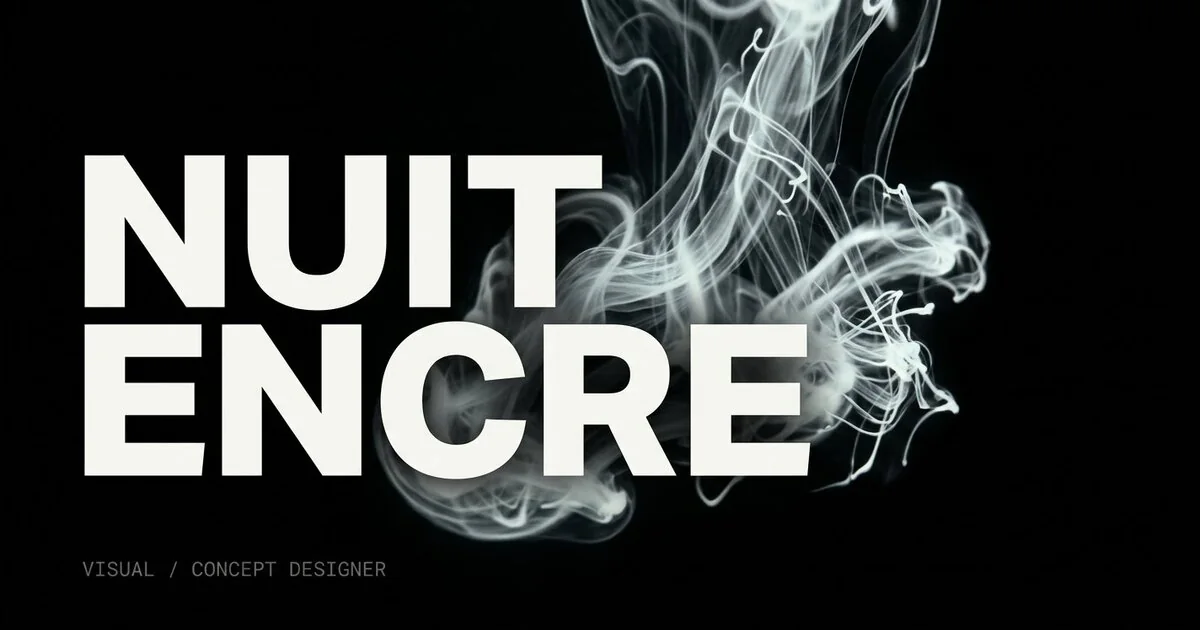
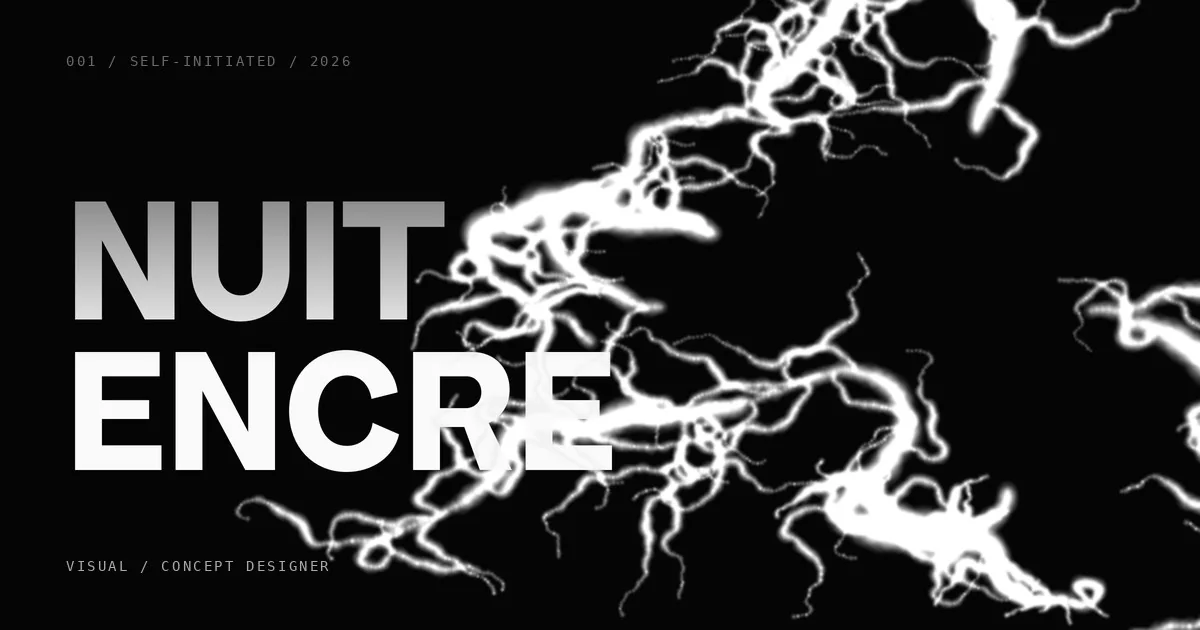
feat: kartu berbagi baru — wordmark Apfel disingkap tinta, plus skrip pembuatnya

diff --git a/tools/make-og-card.py b/tools/make-og-card.py
@@ -1,0 +1,137 @@
+"""Kartu berbagi Nuit-Encre — bahasa visual identik dengan hero situs."""
+import math, os, random
+from PIL import Image, ImageDraw, ImageFont, ImageFilter
+import numpy as np
+
+# Jalankan dari akar repo. Font situs (woff2) diubah ke ttf lebih dulu
+# supaya huruf di kartu identik dengan huruf di situs.
+ROOT = os.path.dirname(os.path.dirname(os.path.abspath(__file__)))
+os.chdir(ROOT)
+TTF = '/tmp/ApfelFett.ttf'
+if not os.path.exists(TTF):
+    from fontTools.ttLib import TTFont
+    _f = TTFont('assets/fonts/ApfelGrotezk-Fett.woff2')
+    _f.flavor = None
+    _f.save(TTF)
+
+W, H = 1200, 630
+SS = 2
+CW, CH = W*SS, H*SS
+rnd = random.Random(20260825)
+
+# ---------- 1. tinta bercabang, port dari grow() ----------
+blobs = []
+def grow(px, py, dr, nodes, step, thick, gen):
+    for i in range(nodes):
+        u = i/nodes
+        dr += (rnd.random()-.5)*(1.25 if gen else .85)
+        px += math.cos(dr)*step
+        py += math.sin(dr)*step*.72
+        taper = math.sin(math.pi*min(1, u*1.15+.12))
+        blobs.append((px, py, thick*(.4+taper*.6)*(.7+rnd.random()*.5)))
+        if gen < 1 and rnd.random() < .17:
+            grow(px, py, dr+(1 if rnd.random()<.5 else -1)*(.5+rnd.random()*.7),
+                 max(3, int(nodes*.45)), step*.7, thick*.42, gen+1)
+        if rnd.random() < .18:
+            blobs.append((px+(rnd.random()-.5)*.1, py+(rnd.random()-.5)*.07,
+                          thick*.34*(.5+rnd.random()*.5)))
+
+# Kartu ini lanskap dan tinta di sini berperan sebagai AKSEN, bukan
+# penutup layar seperti di hero. Maka serat dibuat jauh lebih ramping
+# (thick .022-.05 vs .10-.18) dan jumlahnya diperbanyak, supaya
+# terbaca sebagai serat mengalir alih-alih satu massa gemuk.
+S = min(CW, CH)
+for k in range(9):
+    ang = (k/9)*math.pi*2 + rnd.random()*.7
+    # sebar melingkar, bukan acak murni: mencegah beberapa strand
+    # berangkat dari titik berdekatan lalu menggumpal jadi satu massa
+    rx, ry = CW*.185, CH*.30
+    cx_, cy_ = CW*.755, CH*.50
+    ox = cx_ + math.cos(ang)*rx*(.55+rnd.random()*.7)
+    oy = cy_ + math.sin(ang)*ry*(.55+rnd.random()*.7)
+    # Kunci agar terbaca sebagai SERAT, bukan manik: jari-jari harus
+    # lebih besar dari langkah (rasio r/step >= 1.8), persis seperti
+    # di hero. Serat tetap ramping, tapi langkahnya dirapatkan dan
+    # simpulnya diperbanyak agar jejaknya panjang mengalir.
+    grow(ox, oy, ang, rnd.randint(70,120),
+         S*(.006+rnd.random()*.005), S*(.020+rnd.random()*.022), 0)
+print("simpul:", len(blobs))
+
+# ---------- 2. penumpukan ADITIF dgn gradien radial (spt canvas 'lighter')
+# Inilah yang membuat tinta terbaca sebagai serat, bukan gumpalan:
+# tiap simpul lembut di tepinya dan saling MENJUMLAH, tidak saling menimpa.
+acc = np.zeros((CH, CW), dtype=np.float32)
+yy, xx = np.mgrid[0:CH, 0:CW].astype(np.float32)
+for bx, by, r in blobs:
+    if r <= 1: continue
+    x0, x1 = max(0,int(bx-r)), min(CW,int(bx+r)+1)
+    y0_, y1 = max(0,int(by-r)), min(CH,int(by+r)+1)
+    if x0>=x1 or y0_>=y1: continue
+    sy, sx_ = yy[y0_:y1, x0:x1], xx[y0_:y1, x0:x1]
+    dist = np.sqrt((sx_-bx)**2 + (sy-by)**2)/r
+    m = dist < 1.0
+    # dua colour-stop: .58 di pusat, .22 di 45%, 0 di tepi
+    v = np.where(dist < .45,
+                 .58 + (.22-.58)*(dist/.45),
+                 .22*(1-(dist-.45)/.55))
+    acc[y0_:y1, x0:x1] += np.where(m, np.clip(v,0,None), 0)
+ink_a = np.clip(acc, 0, 1)
+ink_a = np.asarray(Image.fromarray((ink_a*255).astype(np.uint8))
+                   .filter(ImageFilter.GaussianBlur(CW*0.0007)), dtype=np.float32)/255.0
+print("cakupan tinta >0.5:", round(float((ink_a>.5).mean())*100,1), "%")
+
+# ---------- 3. wordmark Apfel asli ----------
+def fit(text, target_w):
+    lo, hi = 10, 600
+    while lo < hi:
+        mid = (lo+hi+1)//2
+        f = ImageFont.truetype('/tmp/ApfelFett.ttf', mid)
+        b = f.getbbox(text)
+        if b[2]-b[0] <= target_w: lo = mid
+        else: hi = mid-1
+    return lo
+
+PAD = int(CW*.055)
+box_w = int(CW*.46)
+fs = min(fit("NUIT", box_w), fit("ENCRE", box_w))
+f = ImageFont.truetype('/tmp/ApfelFett.ttf', fs)
+
+wm = Image.new('L', (CW, CH), 0)
+dw = ImageDraw.Draw(wm)
+line_h = int(fs*.82)
+b1, b2 = f.getbbox("NUIT"), f.getbbox("ENCRE")
+y0 = int(CH*.32)
+dw.text((PAD-b1[0], y0-b1[1]), "NUIT",  font=f, fill=255)
+dw.text((PAD-b2[0], y0+line_h-b2[1]), "ENCRE", font=f, fill=255)
+wm_a = np.asarray(wm, dtype=np.float32)/255.0
+print("ukuran huruf:", fs)
+
+# ---------- 4. singkap: gradien vertikal spt CSS, digerus tinta ----------
+ys = np.linspace(0, 1, CH, dtype=np.float32)[:, None]
+top_wm, bot_wm = y0/CH, (y0+line_h+fs*.78)/CH
+t = np.clip((ys-top_wm)/(bot_wm-top_wm), 0, 1)
+vert = np.clip(t*1.05+.42, 0, 1)   # dasar .42 agar puncak huruf tetap terbaca
+keep = np.clip(vert - ink_a*0.42*(1.0-vert*0.55), 0, 1) ** 0.68
+wm_final = wm_a * keep
+
+# ---------- 5. susun ----------
+out = np.zeros((CH, CW, 3), dtype=np.float32)
+out[:] = np.array([5,5,5], dtype=np.float32)/255.0
+pure = np.array([250,250,250], dtype=np.float32)/255.0
+out += np.dstack([ink_a]*3)*pure
+a3 = np.dstack([wm_final]*3)
+out = out*(1-a3) + a3*pure
+img = Image.fromarray((np.clip(out,0,1)*255).astype(np.uint8), 'RGB').resize((W,H), Image.LANCZOS)
+
+# ---------- 6. caption ----------
+dd = ImageDraw.Draw(img)
+mono = ImageFont.truetype('/usr/share/fonts/truetype/dejavu/DejaVuSansMono.ttf', 14)
+def track(xy, s, fill, sp=2.6):
+    x, y = xy
+    for ch in s:
+        dd.text((x,y), ch, font=mono, fill=fill); x += dd.textlength(ch,font=mono)+sp
+p = int(W*.055)
+track((p, int(H*.085)), "001 / SELF-INITIATED / 2026", (104,104,104))
+track((p, H-int(H*.115)), "VISUAL / CONCEPT DESIGNER", (168,168,168))
+img.save('assets/img/og-cover.jpg', quality=88, optimize=True)
+print("tersimpan")

diff --git a/tools/README.md b/tools/README.md
@@ -1,0 +1,27 @@
+# tools
+
+## make-og-card.py
+
+Membuat ulang `assets/img/og-cover.jpg` (kartu berbagi 1200×630).
+
+Kartu ini memakai bahasa visual yang sama dengan hero situs: wordmark
+Apfel Grotezk Fett yang disingkap oleh tinta bercabang dari algoritma
+`grow()` di `assets/js/main.js`.
+
+Jalankan:
+
+    python3 -m pip install --break-system-packages fonttools brotli pillow numpy
+    python3 tools/make-og-card.py
+
+Skrip mengonversi `assets/fonts/ApfelGrotezk-Fett.woff2` ke
+`/tmp/ApfelFett.ttf` lebih dulu, jadi huruf di kartu identik dengan
+huruf di situs.
+
+Dua angka yang menentukan hasilnya:
+
+- **rasio jari-jari terhadap langkah** harus >= 1.8, kalau tidak simpul
+  tidak bersentuhan dan tinta terbaca sebagai manik-manik, bukan serat
+- **`vert`** dasar 0.42 menjaga puncak huruf tetap terbaca; kalau
+  diturunkan, baris NUIT mulai lenyap
+
+Seed dikunci di `20260825` supaya hasilnya dapat diulang.
